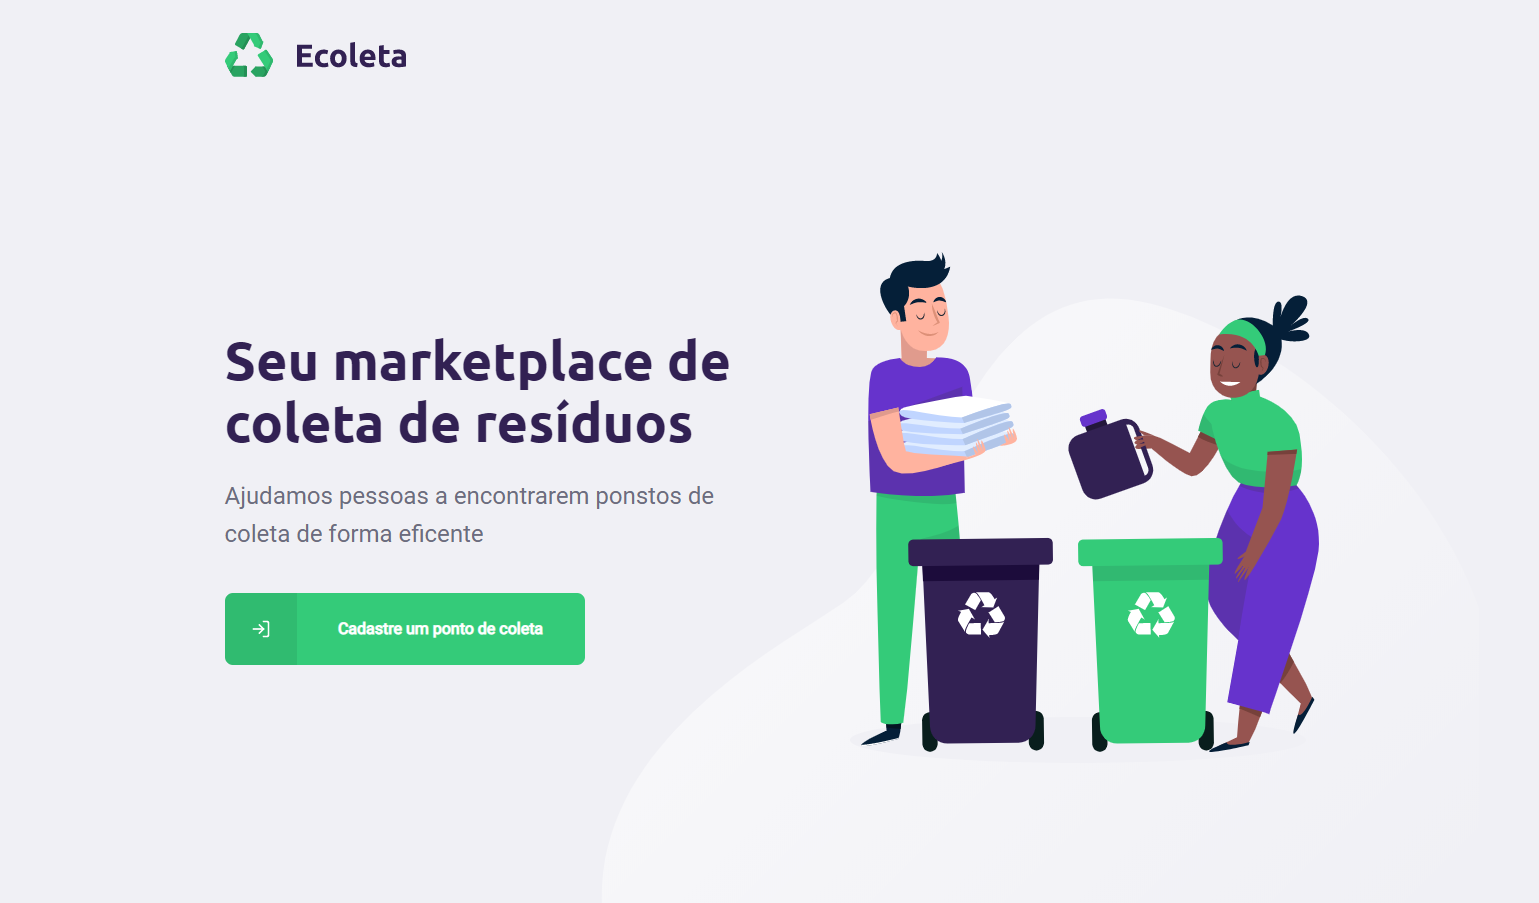
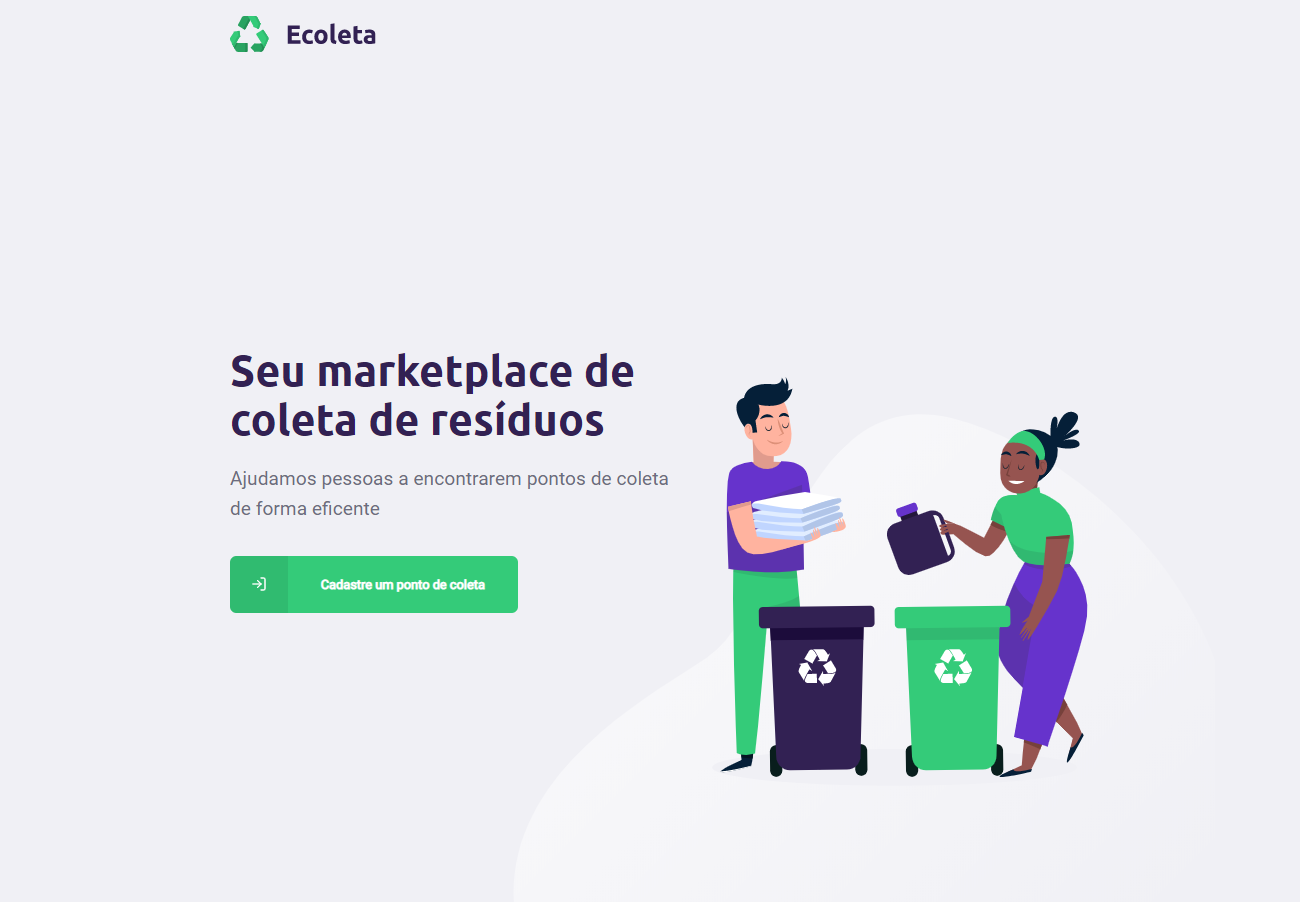
Correção

diff --git a/web/src/pages/Home/index.tsx b/web/src/pages/Home/index.tsx
@@ -17,7 +17,7 @@ const Home: React.FC = () => {
         <main>
           <h1>Seu marketplace de coleta de resíduos</h1>
           <p>
-            Ajudamos pessoas a encontrarem ponstos de coleta de forma eficente
+            Ajudamos pessoas a encontrarem pontos de coleta de forma eficente
           </p>
 
           <Link to="/cadastro-ponto">
